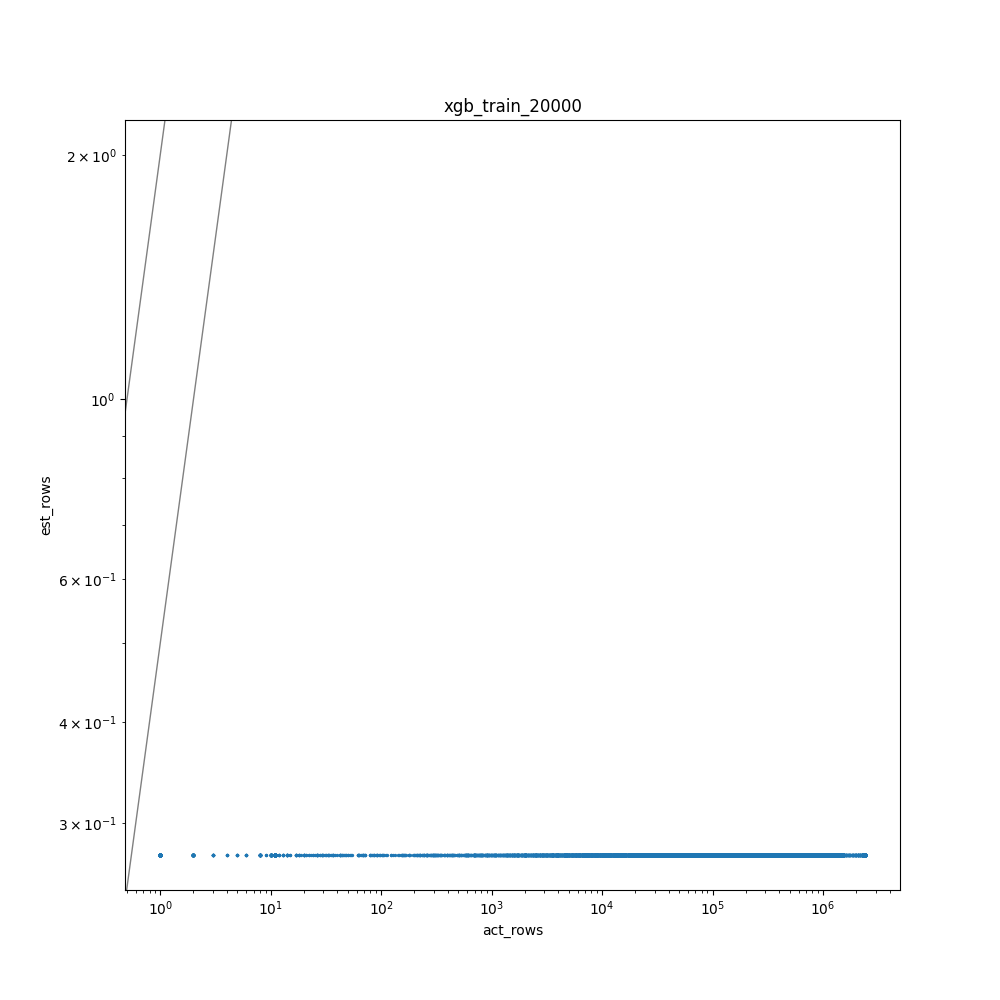
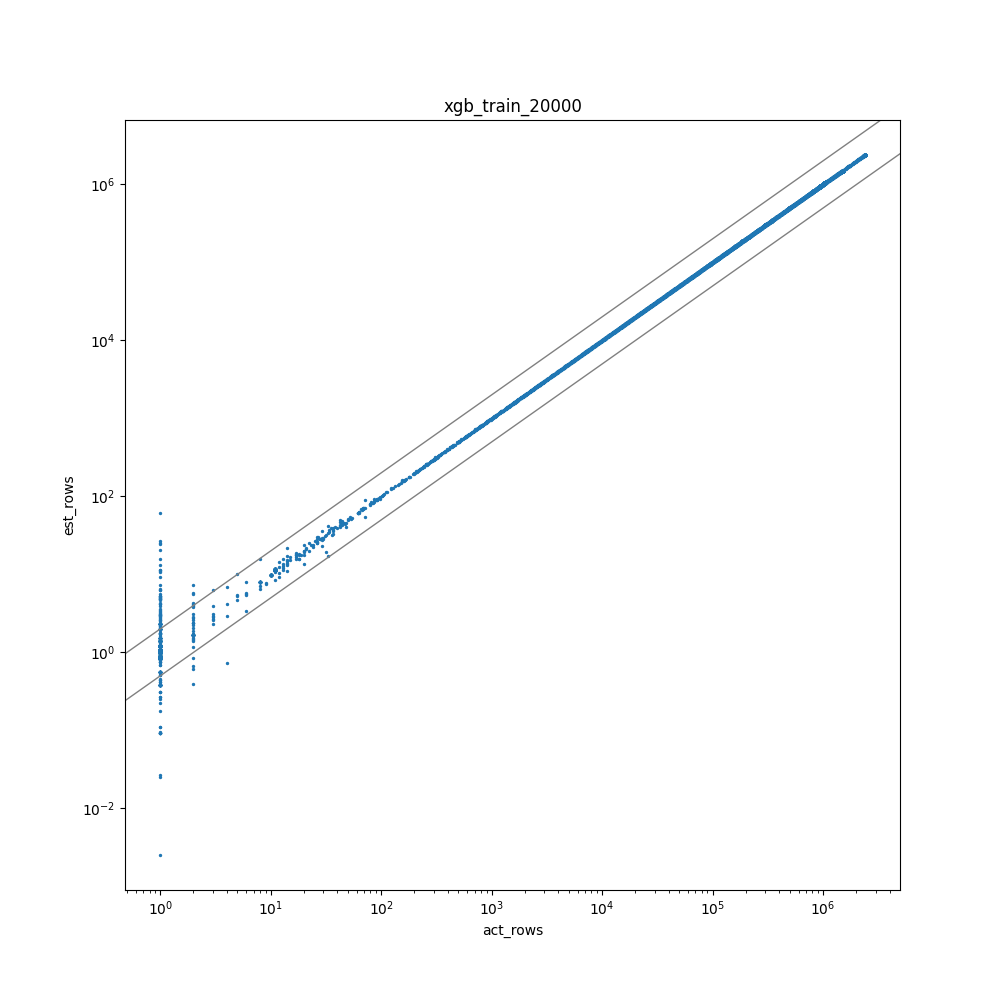
update xgbt

diff --git a/lab1/learn_from_query.py b/lab1/learn_from_query.py
@@ -3,11 +3,11 @@ import matplotlib.pyplot as plt
 import numpy as np
 import range_query as rq
 import json
-import math
 import torch
 import torch.nn as nn
 import statistics as stats
 import xgboost as xgb
+from scipy.misc import derivative
 
 
 def min_max_normalize(v, min_v, max_v):
@@ -90,17 +90,32 @@ def est_mlp(train_data, test_data, table_stats, columns):
     return train_est_rows, train_act_rows, test_est_rows, test_act_rows
 
 
-def q_error(pred, label):
-    #label = dtrain.get_label()
-    mse = [(math.log(x) - math.log(y))**2 for x, y in zip(label, pred)]
-    grad = [2 * (math.log(y / x) / y) for x, y in zip(label, pred)]
-    hess = [
-        2 * (1 - math.log(y) + math.log(x)) / y**2
-        for x, y in zip(label, pred)
-    ]
-    grad = np.array(grad)
-    hess = np.array(hess)
-    return grad.reshape(-1, 1), hess.reshape(-1, 1)
+def q_error(pred, dtrain):
+    label = dtrain.get_label()
+    # mse = [(math.log(x) - math.log(y))**2 for x, y in zip(label, pred)]
+    # grad = [2 * (math.log(y / x) / y) for x, y in zip(label, pred)]
+    # hess = [
+    #     2 * (1 - math.log(y) + math.log(x)) / y**2
+    #     for x, y in zip(label, pred)
+    # ]
+    # def fl(x, t):
+    #     return (np.log(x) - np.log(t))**2
+
+    # partial_fl = lambda x: fl(x, label)
+    # gred = derivative(partial_fl, pred, n=1, dx=1e-6)
+    # hess = derivative(partial_fl, pred, n=2, dx=1e-6)
+    # print(gred)
+    # print(hess)
+    # print()
+    # return gred, hess
+    pred = np.array(pred)
+    label = np.array(label)
+    grad = 2 * (np.log(pred) - np.log(label)) / pred
+    hess = 2 * (1 - np.log(pred) + np.log(label)) / pred**2
+    #grad = np.array(grad) / len(label)
+    #hess = np.array(hess) / len(label)
+    print(grad, hess)
+    return grad, hess
 
 
 def est_xgb(train_data, test_data, table_stats, columns):
@@ -113,19 +128,22 @@ def est_xgb(train_data, test_data, table_stats, columns):
     # YOUR CODE HERE: train procedure
     #train_x = np.array(train_x)
     #train_y = np.array(train_y)
-    #xgtrain = xgb.DMatrix(train_x, train_y)
+    xgtrain = xgb.DMatrix(train_x, train_y)
     param = {
-        'max_depth': 5,
+        'max_depth': 20,
         'n_estimators': 500,
-        'num_round': 10,
+        'num_round': 15,
         'eta': 0.1,
         'silent': 1,
         'subsample': 0.7,
         'colsample_bytree': 0.7,
-        'objective': q_error
+        #'objective': q_error,
+        #'objective': 'reg:squaredlogerror'
     }
+    #estimator = xgb.train(param, dtrain=xgtrain)
     estimator = xgb.XGBRegressor(**param)
     estimator.fit(train_x, train_y)
+    #train_est_rows = estimator.predict(xgtrain)
     train_est_rows = estimator.predict(train_x)
     test_x, test_y = preprocess_queries(test_data, table_stats, columns)
     test_est_rows, test_act_rows = [], []
@@ -133,9 +151,11 @@ def est_xgb(train_data, test_data, table_stats, columns):
     # test_x = np.array(test_x)
     # test_y = np.array(test_y)
     #xgtest = xgb.DMatrix(test_x, test_y)
+    #test_est_rows = estimator.predict(xgtest)
     test_est_rows = estimator.predict(test_x)
     train_act_rows = train_y
     test_act_rows = test_y
+    #print(test_est_rows)
     return train_est_rows, train_act_rows, test_est_rows, test_act_rows
 
 
